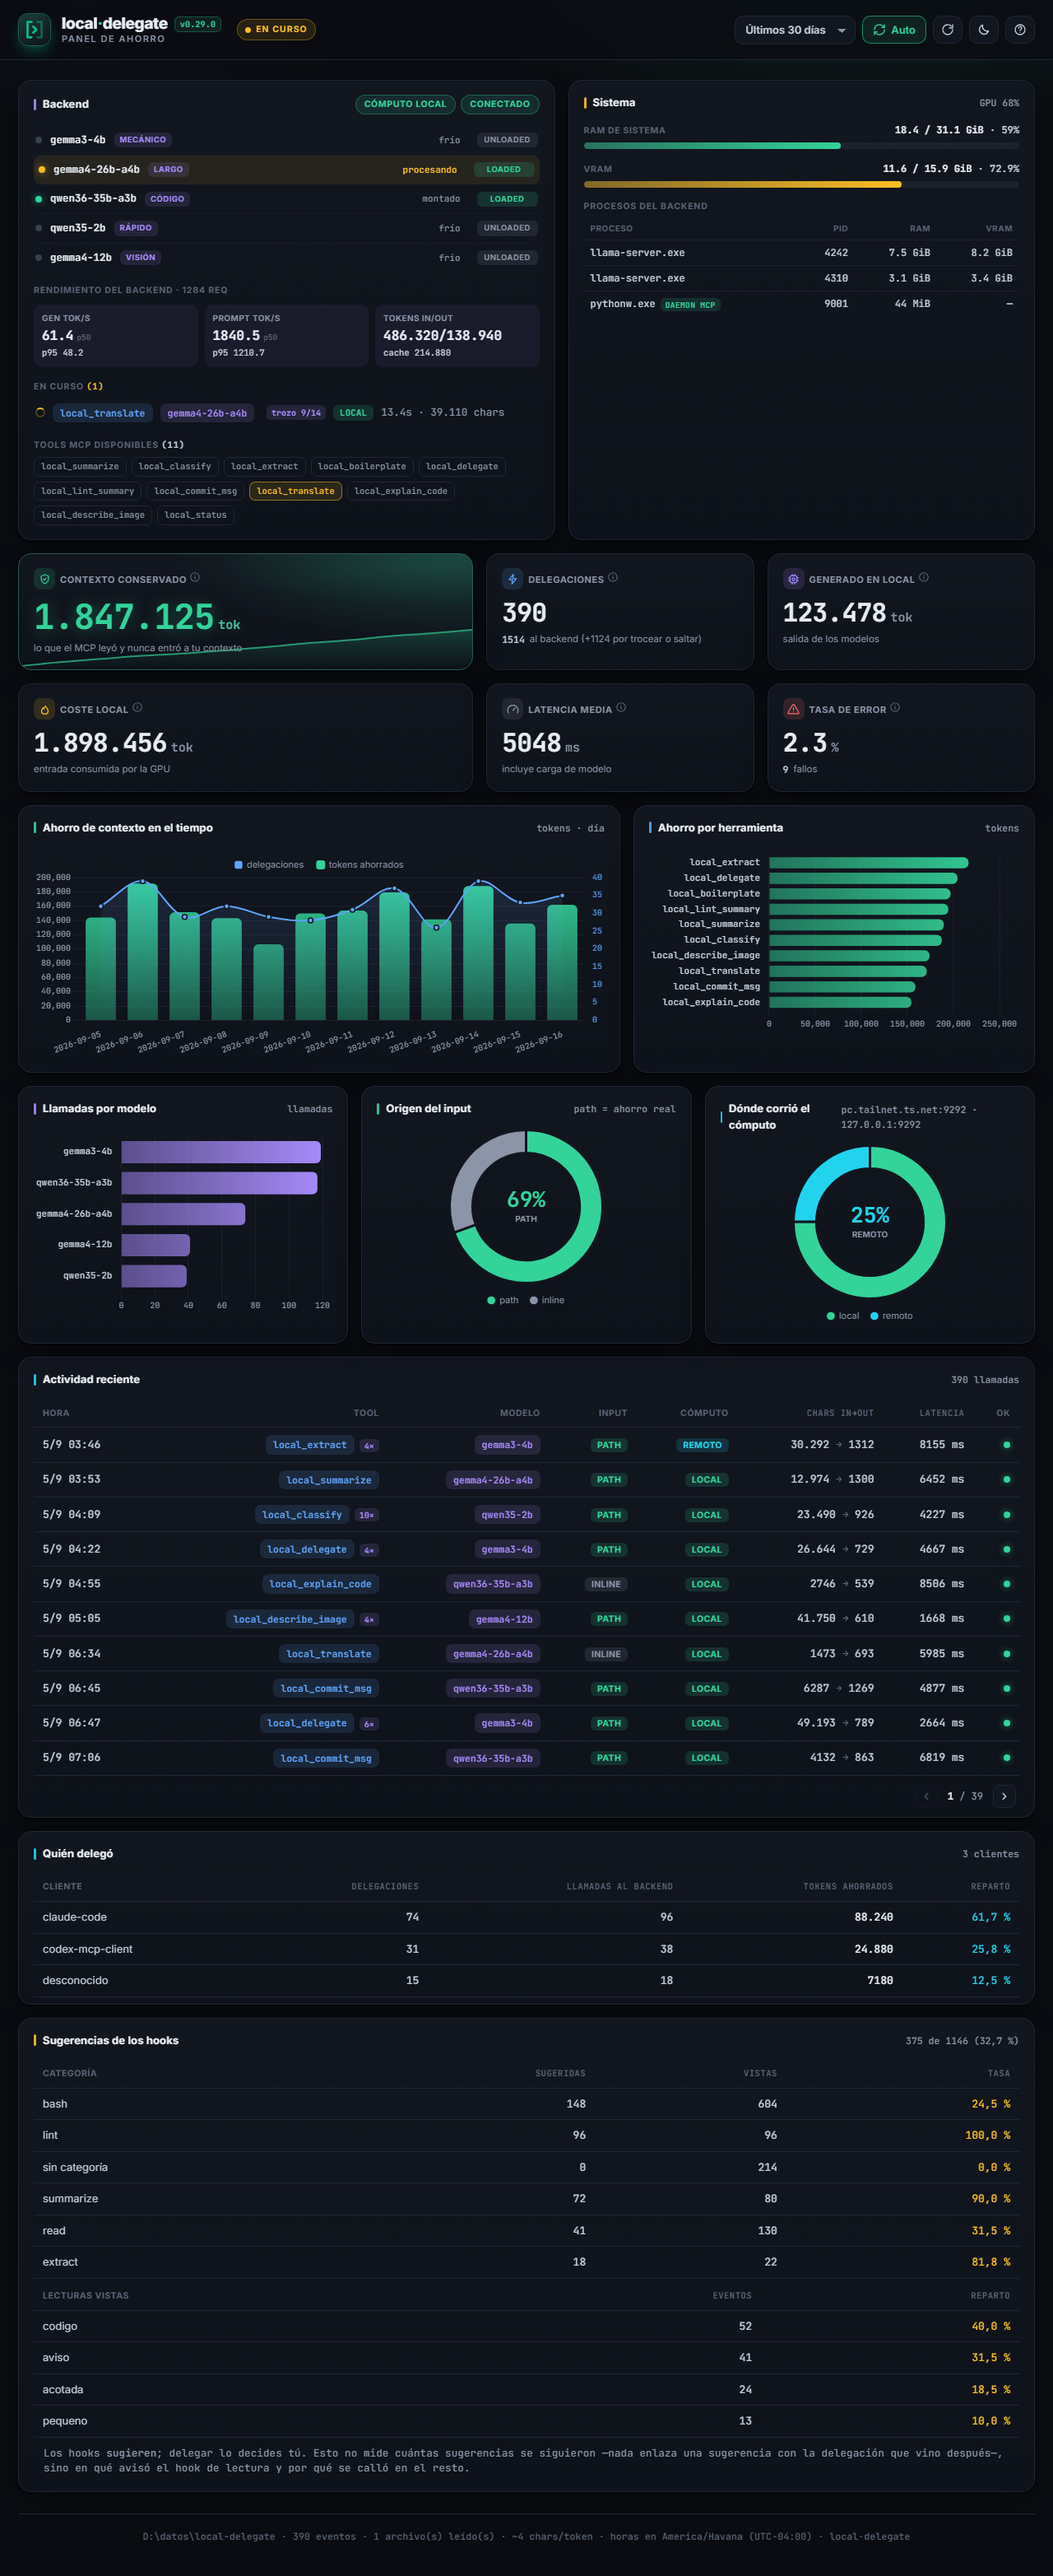
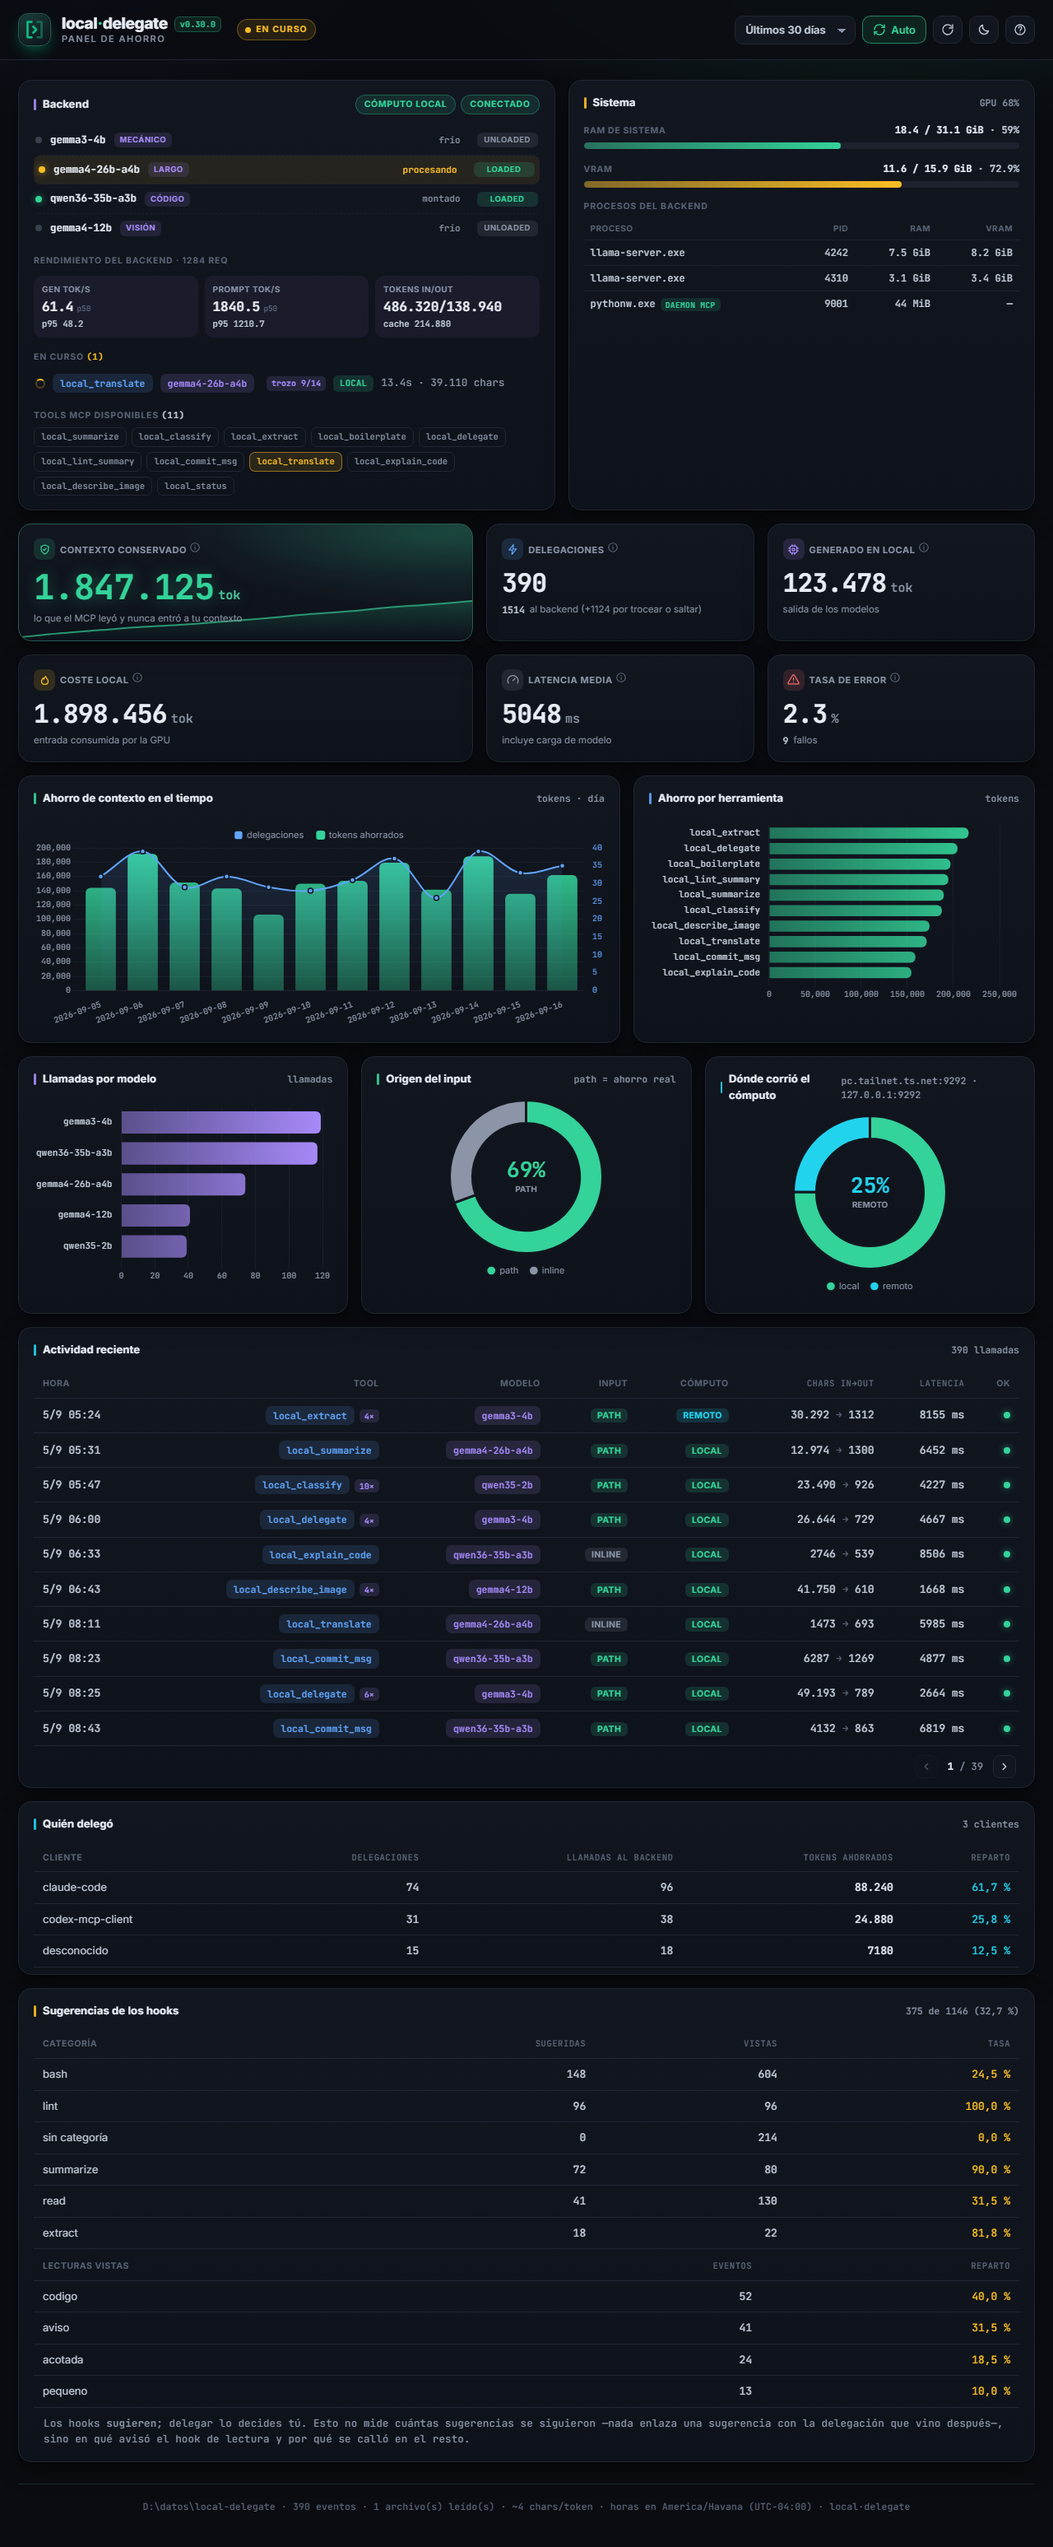
chore: release v0.30.0
Bump en los cuatro sitios, CHANGELOG cerrado con fecha y enlaces, y captura
del README regenerada contra la app de metricas del repo (manifiesto en
0.30.0). En la imagen ya se ve el catalogo con cuatro roles: mechanical,
long, code y vision.

Minor por el breaking: se retira el rol `fast`.

diff --git a/CHANGELOG.md b/CHANGELOG.md
@@ -6,6 +6,8 @@ y el proyecto usa [Versionado Semántico](https://semver.org/lang/es/).
 
 ## [Unreleased]
 
+## [0.30.0] - 2026-09-15
+
 ### Removed
 - **El rol `fast` se retira (breaking).** No tenía carga real: sobre 164 registros del log de uso
   —que cubre también las llamadas de otras máquinas que delegan en este backend— solo **5** eran de
@@ -2128,7 +2130,8 @@ y el proyecto usa [Versionado Semántico](https://semver.org/lang/es/).
 - Empaquetado para PyPI (`local-delegate-mcp`) ejecutable con `uvx`; `server.json` para el
   registro oficial de MCP.
 
-[Unreleased]: https://github.com/ZahiriNatZuke/local-delegate/compare/v0.29.0...HEAD
+[Unreleased]: https://github.com/ZahiriNatZuke/local-delegate/compare/v0.30.0...HEAD
+[0.30.0]: https://github.com/ZahiriNatZuke/local-delegate/compare/v0.29.0...v0.30.0
 [0.29.0]: https://github.com/ZahiriNatZuke/local-delegate/compare/v0.28.0...v0.29.0
 [0.28.0]: https://github.com/ZahiriNatZuke/local-delegate/compare/v0.27.0...v0.28.0
 [0.27.0]: https://github.com/ZahiriNatZuke/local-delegate/compare/v0.26.0...v0.27.0
